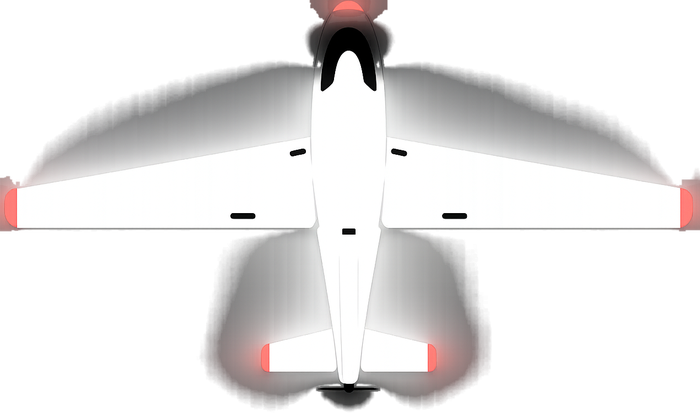
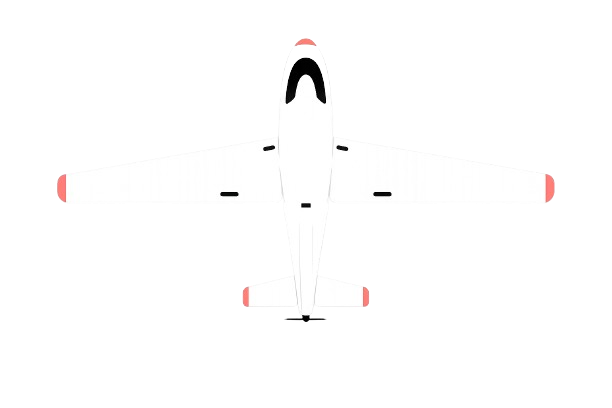
Replace airplane marker with approved asset

Changed region(s): [[0.0, 0.0, 1.0, 1.0], [0.5278, 0.3529, 0.5899, 0.3824], [0.4036, 0.3529, 0.4657, 0.3824]]

diff --git a/apps/web/src/components/TrackingMap.tsx b/apps/web/src/components/TrackingMap.tsx
@@ -20,7 +20,7 @@ function markerIcon(status: string, heading?: number | null, vehicleType: Vehicl
     motorcycle: [42, 58],
     car: [82, 55],
     boat: [82, 46],
-    airplane: [88, 52],
+    airplane: [82, 55],
     bus: [110, 32]
   };
   const iconSize = sizeByType[vehicleType] ?? sizeByType.motorcycle;

diff --git a/docs/vehicle-icons.md b/docs/vehicle-icons.md
@@ -50,7 +50,7 @@ const sizeByType: Record<VehicleType, [number, number]> = {
   motorcycle: [42, 58],
   car: [82, 55],
   boat: [82, 46],
-  airplane: [88, 52],
+  airplane: [82, 55],
   bus: [110, 32]
 };
 ```
@@ -172,7 +172,7 @@ car: [82, 55]
 
 ### Aviao
 
-Status: usando PNG transparente real fornecido pelo usuario, com tamanho aumentado no mapa.
+Status: substituido por PNG transparente real fornecido pelo usuario.
 
 Arquivo esperado:
 
@@ -185,7 +185,7 @@ Importante: antes de commitar novo aviao, garantir que e PNG transparente real e
 Tamanho atual no mapa:
 
 ```ts
-airplane: [88, 52]
+airplane: [82, 55]
 ```
 
 ### Barco